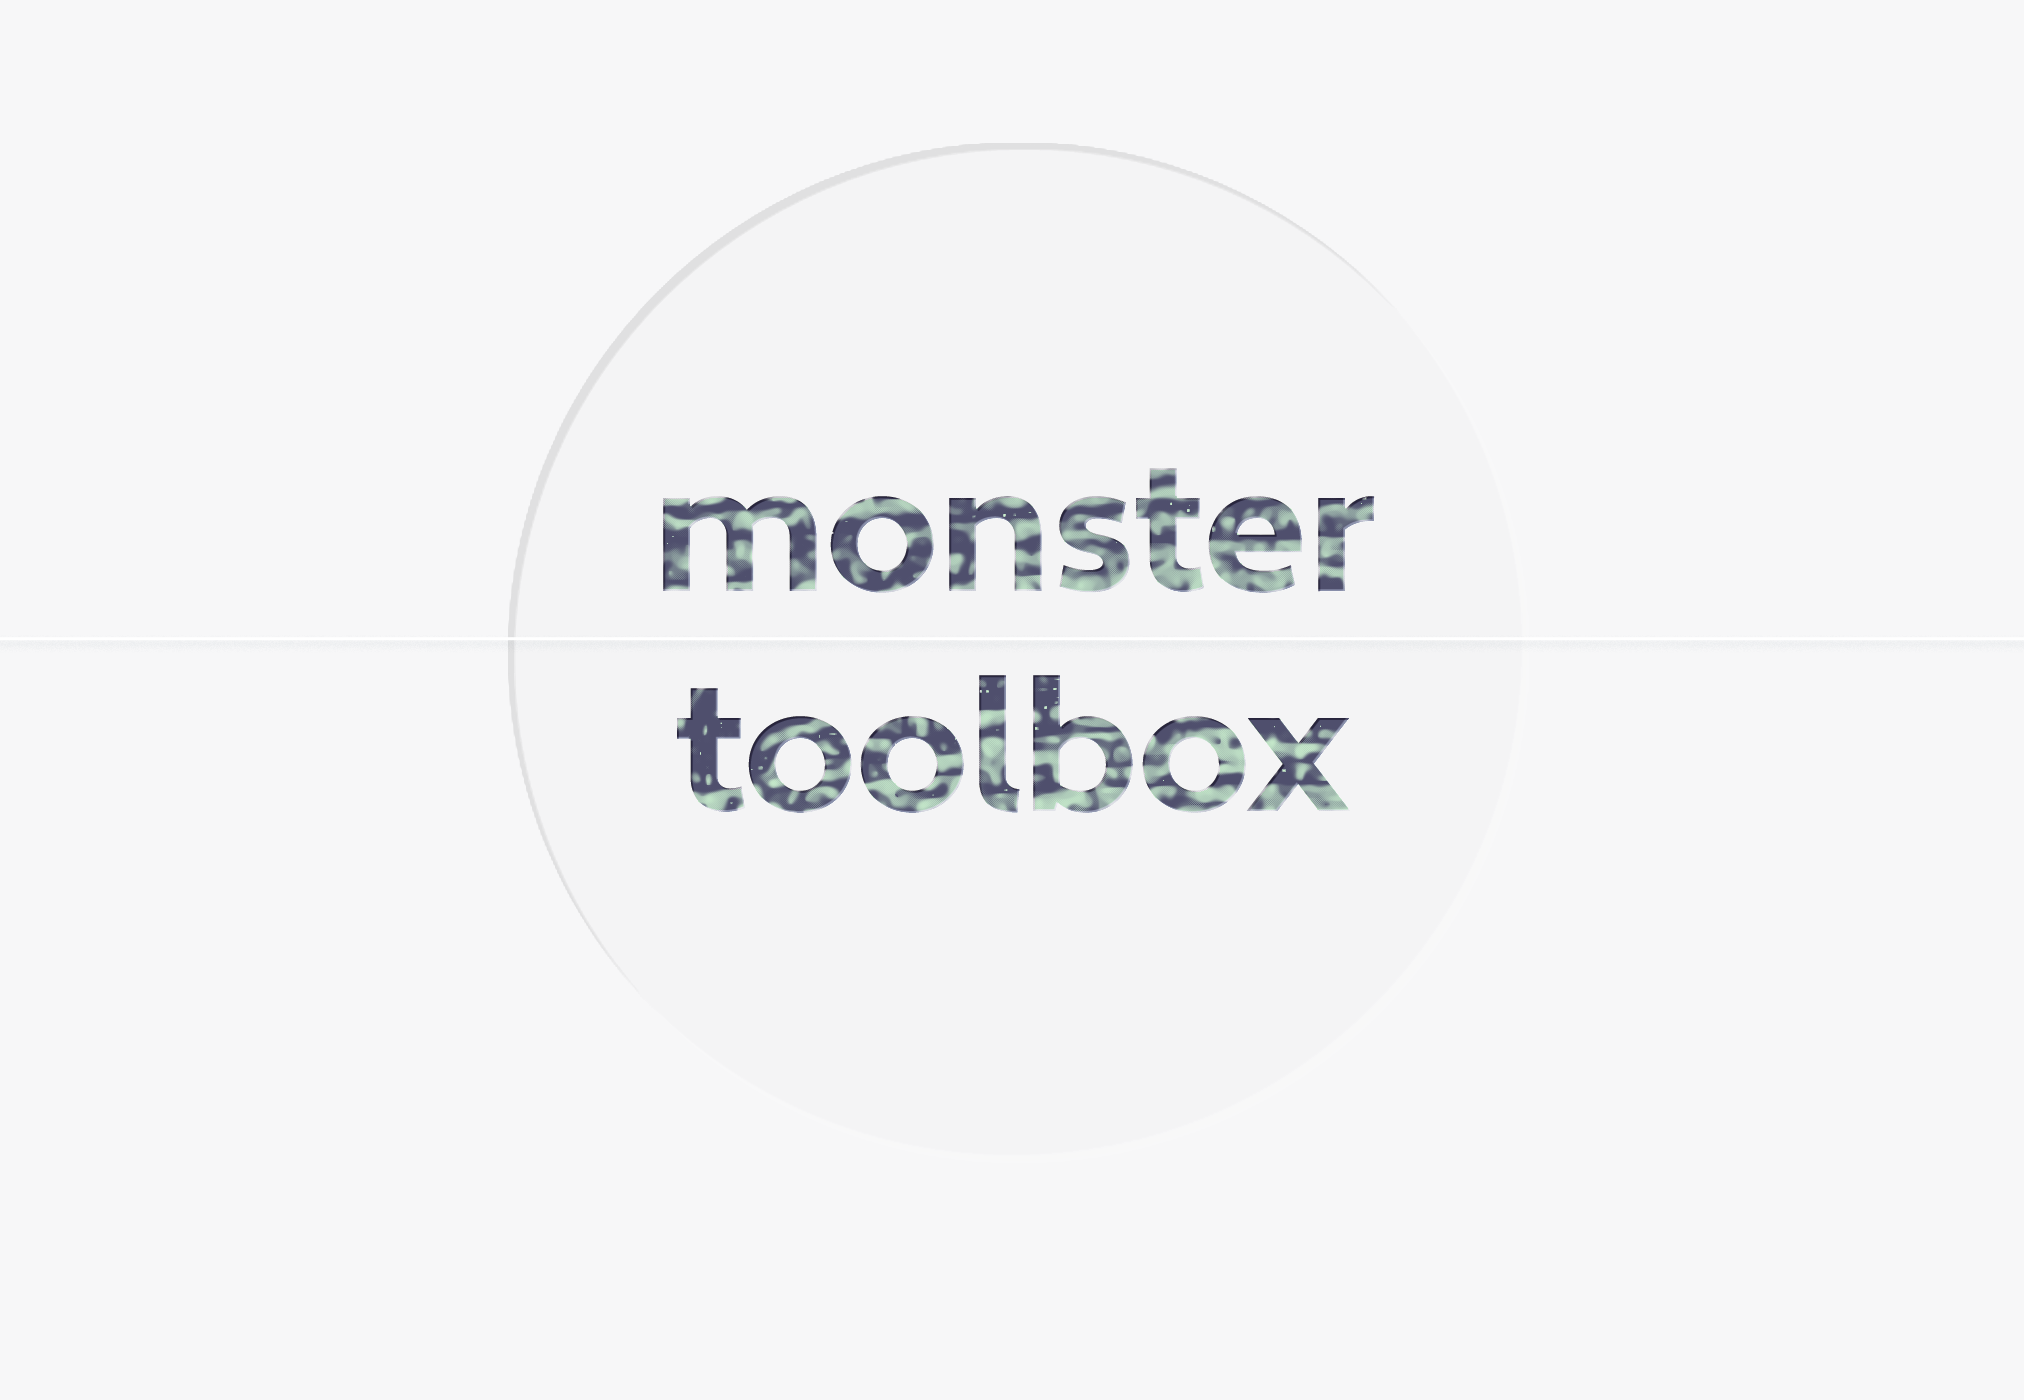
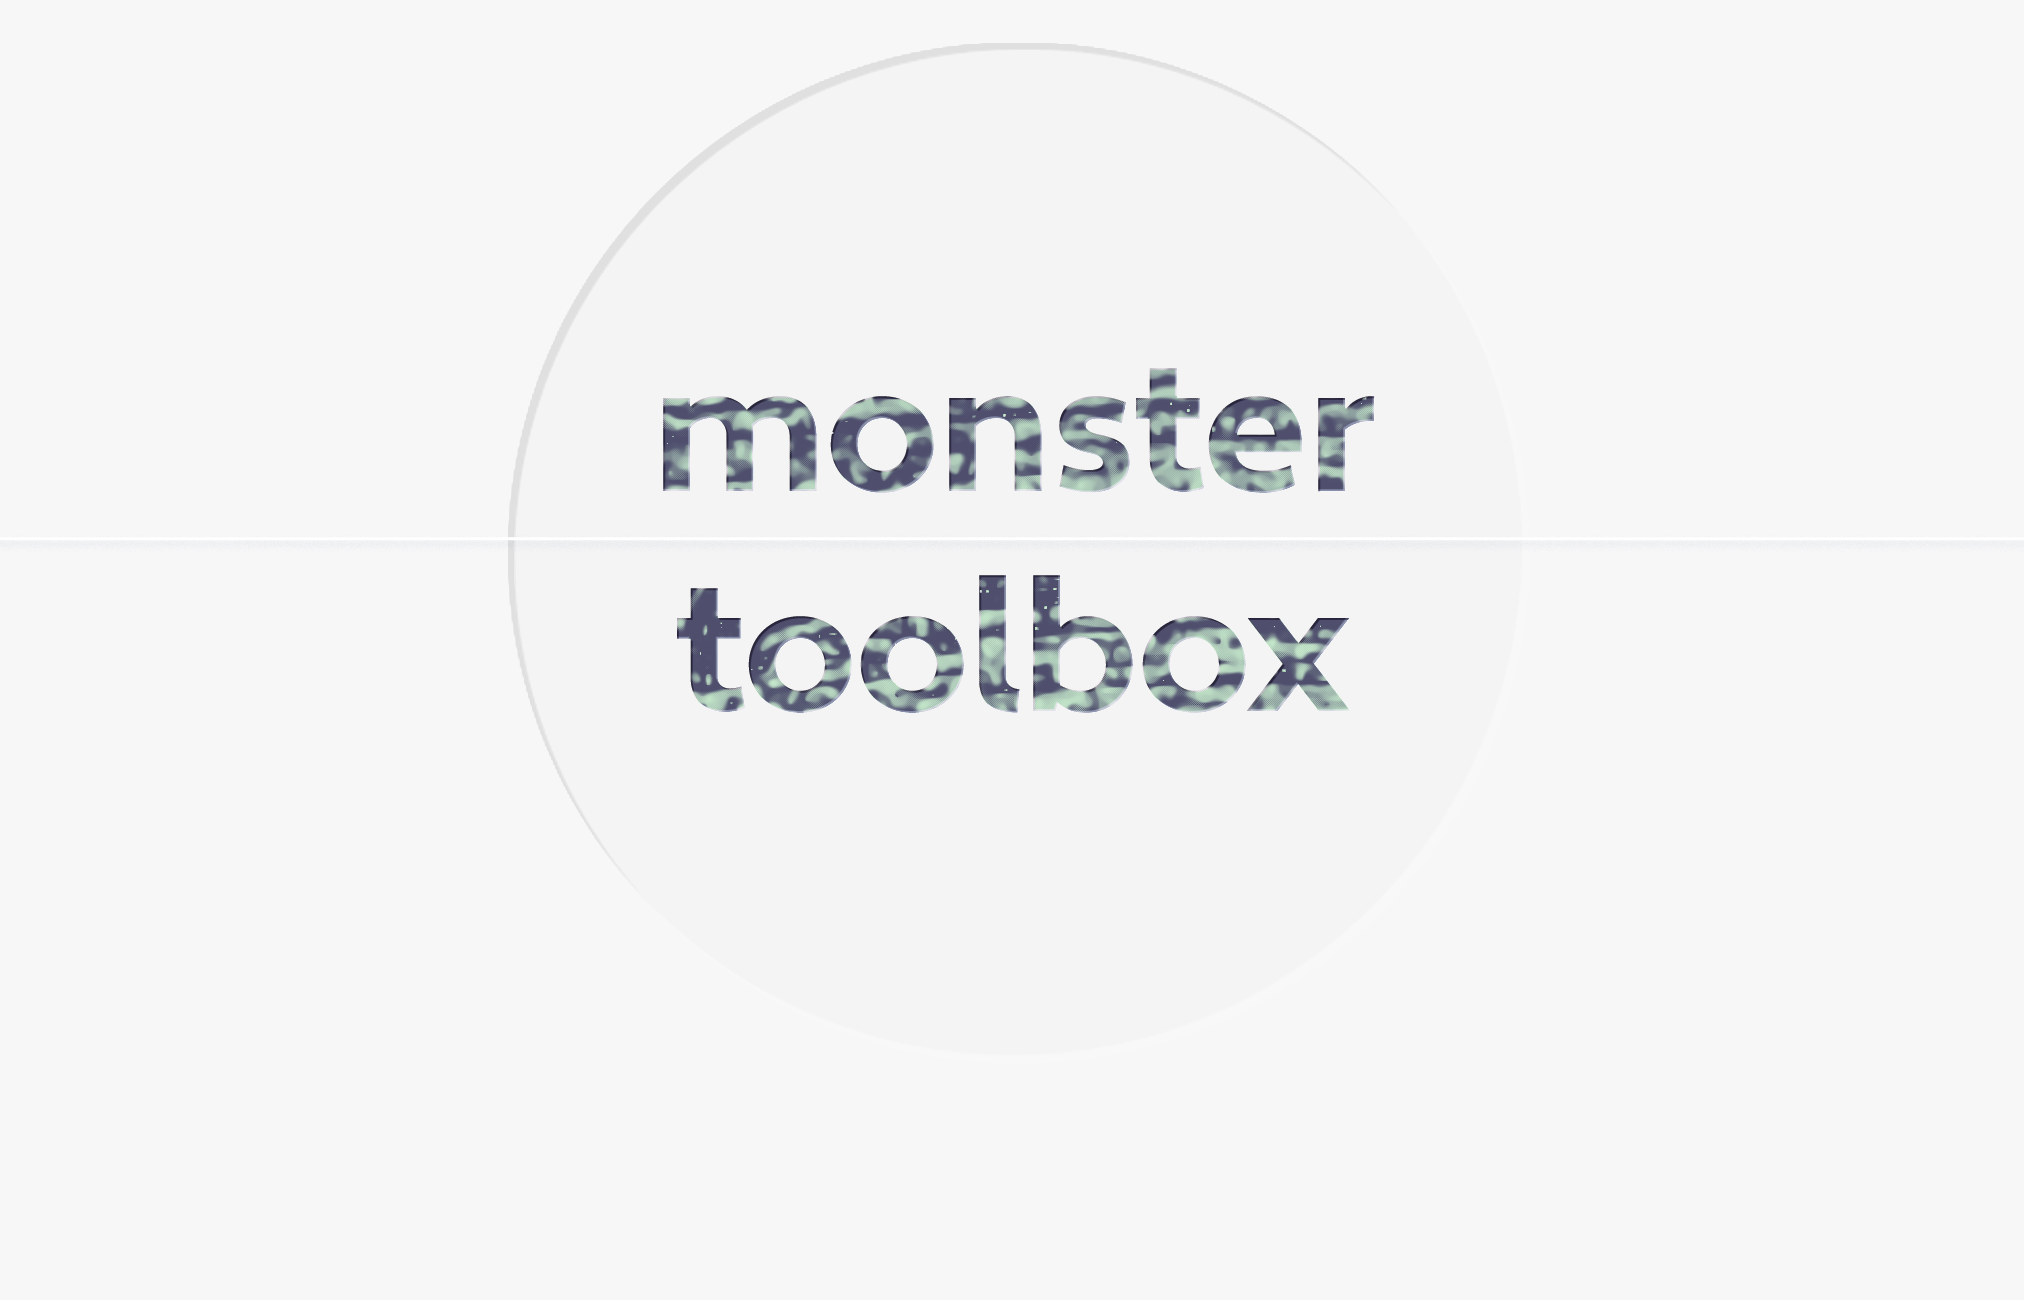
Add way more images and do massive style overhaul

Changed region(s): [[0.3113, 0.2769, 0.6848, 0.5846]]

diff --git a/app/assets/stylesheets/application.css.scss b/app/assets/stylesheets/application.css.scss
@@ -8,7 +8,26 @@
   position: absolute;
   z-index: 2;
 }
+.pb-circle{
+  background-color: #fff;
+  height: 3.5em;
+  width: 3.5em;
+  padding: 0.6em;
+  border-radius: 50%;
+  -moz-box-shadow: inset 2px 2px 2px 1px rgba(0, 0, 2, 0.41);
+  -webkit-box-shadow: inset 2px 2px 2px 1px rgba(0, 0, 2, 0.41);
+  box-shadow: inset 2px 2px 2px 1px rgba(0, 0, 2, 0.41);
+:hover {
+cursor: pointer;
+}
+}
+.part-button{
+  width: 6%;
+  height: 6%;
+  display:inline-block;
 
+
+}
 .circle-button1 {
   position: relative;
   display: inline-block;
@@ -18,7 +37,7 @@
   line-height: 0;
   border-radius: 50%;
   left: 7.5vw;
-  top: 45vw;
+  top: 40vw;
   -moz-box-shadow: inset 2px 2px 3px rgba(6, 8, 12, 0.31);
   -webkit-box-shadow: inset 2px 2px 3px rgba(6, 8, 12, 0.31);
   box-shadow: inset 2px 2px 3px rgba(6, 8, 12, 0.31);
@@ -32,10 +51,10 @@
   line-height: 0;
   border-radius: 50%;
   left: 62.5vw;
-  top: 45vw;
+  top: 40vw;
   -moz-box-shadow: inset 2px 2px 3px rgba(6, 8, 12, 0.31);
   -webkit-box-shadow: inset 2px 2px 3px rgba(6, 8, 12, 0.31);
-  box-shadow: inset 2px 2px 4px rgba(6, 8, 12, 0.31);
+  box-shadow: inset 2px 2px 3px rgba(6, 8, 12, 0.31);
 }
 .circle-text{
   padding-left: 2.75vw;
@@ -52,7 +71,10 @@
     color: #000;
   }
 }
-
+.drawer{
+  margin-top: 0.5em;
+  margin-bottom: 0.5em;
+}
 .drawer-tab {
   display:inline-block;
   color: #fff;
@@ -78,16 +100,9 @@
 .sidebar{
   height: 600px;
 }
-.part-button{
-  width: 5%;
-  height: 5%;
-  display:inline-block;
-  a:hover {
-cursor: pointer;
-}
-}
+
 .dark{
-background-color: rgba(0, 0, 0, 0.23)
+background-color: rgba(52, 139, 122, 0.69);
 }
 .light{
   background-color: rgba(255, 255, 255, 0.63);

diff --git a/app/assets/javascripts/initializer.js b/app/assets/javascripts/initializer.js
@@ -35,30 +35,7 @@ monster.initialize = function() {
     context.clearRect(0, 0, canvas.width, canvas.height);
     }, false);
 
-  $('#save').click(function(event){
-    event.preventDefault();
-    $('#monster-details').show( "slow");
-  });
 
-  $("#submit").click(function(event){
-    event.preventDefault();
-    $("#data").val(d.toDataURL());
-    $("#frm").trigger("submit");
-  });
-
-  // var myImage = new Image();
-  // myImage.crossOrigin="anonymous";
-  // myImage.src = $('#themain').data('parent-url');
-
-  $(myImage).load(function() {
-    e.drawImage(myImage, 0, 0);
-  });
-
-function saveRestorePoint() {
-  var oCanvas = document.getElementById("monsterCanvas");
-  var imgSrc = oCanvas.toDataURL("artwork/png");
-  restorePoints.push(imgSrc);
-}
   $('#eyes').hide();
   $('#mouths').hide();
   $('#noses').hide();

diff --git a/app/assets/javascripts/canvas-action.js b/app/assets/javascripts/canvas-action.js
@@ -73,7 +73,30 @@ function tick(event) {
   }
 }
 
+$('#save').click(function(event){
+    event.preventDefault();
+    $('#monster-details').show( "slow");
+  });
 
+  $("#submit").click(function(event){
+    event.preventDefault();
+    $("#data").val(d.toDataURL());
+    $("#frm").trigger("submit");
+  });
+
+  // var myImage = new Image();
+  // myImage.crossOrigin="anonymous";
+  // myImage.src = $('#themain').data('parent-url');
+
+  $(myImage).load(function() {
+    e.drawImage(myImage, 0, 0);
+  });
+
+function saveRestorePoint() {
+  var oCanvas = document.getElementById("monsterCanvas");
+  var imgSrc = oCanvas.toDataURL("artwork/png");
+  restorePoints.push(imgSrc);
+}
 
 
 

diff --git a/app/assets/stylesheets/foundation_and_overrides.scss b/app/assets/stylesheets/foundation_and_overrides.scss
@@ -1,4 +1,4 @@
-@import 'foundation';
+
 
 // Foundation by ZURB
 // foundation.zurb.com
